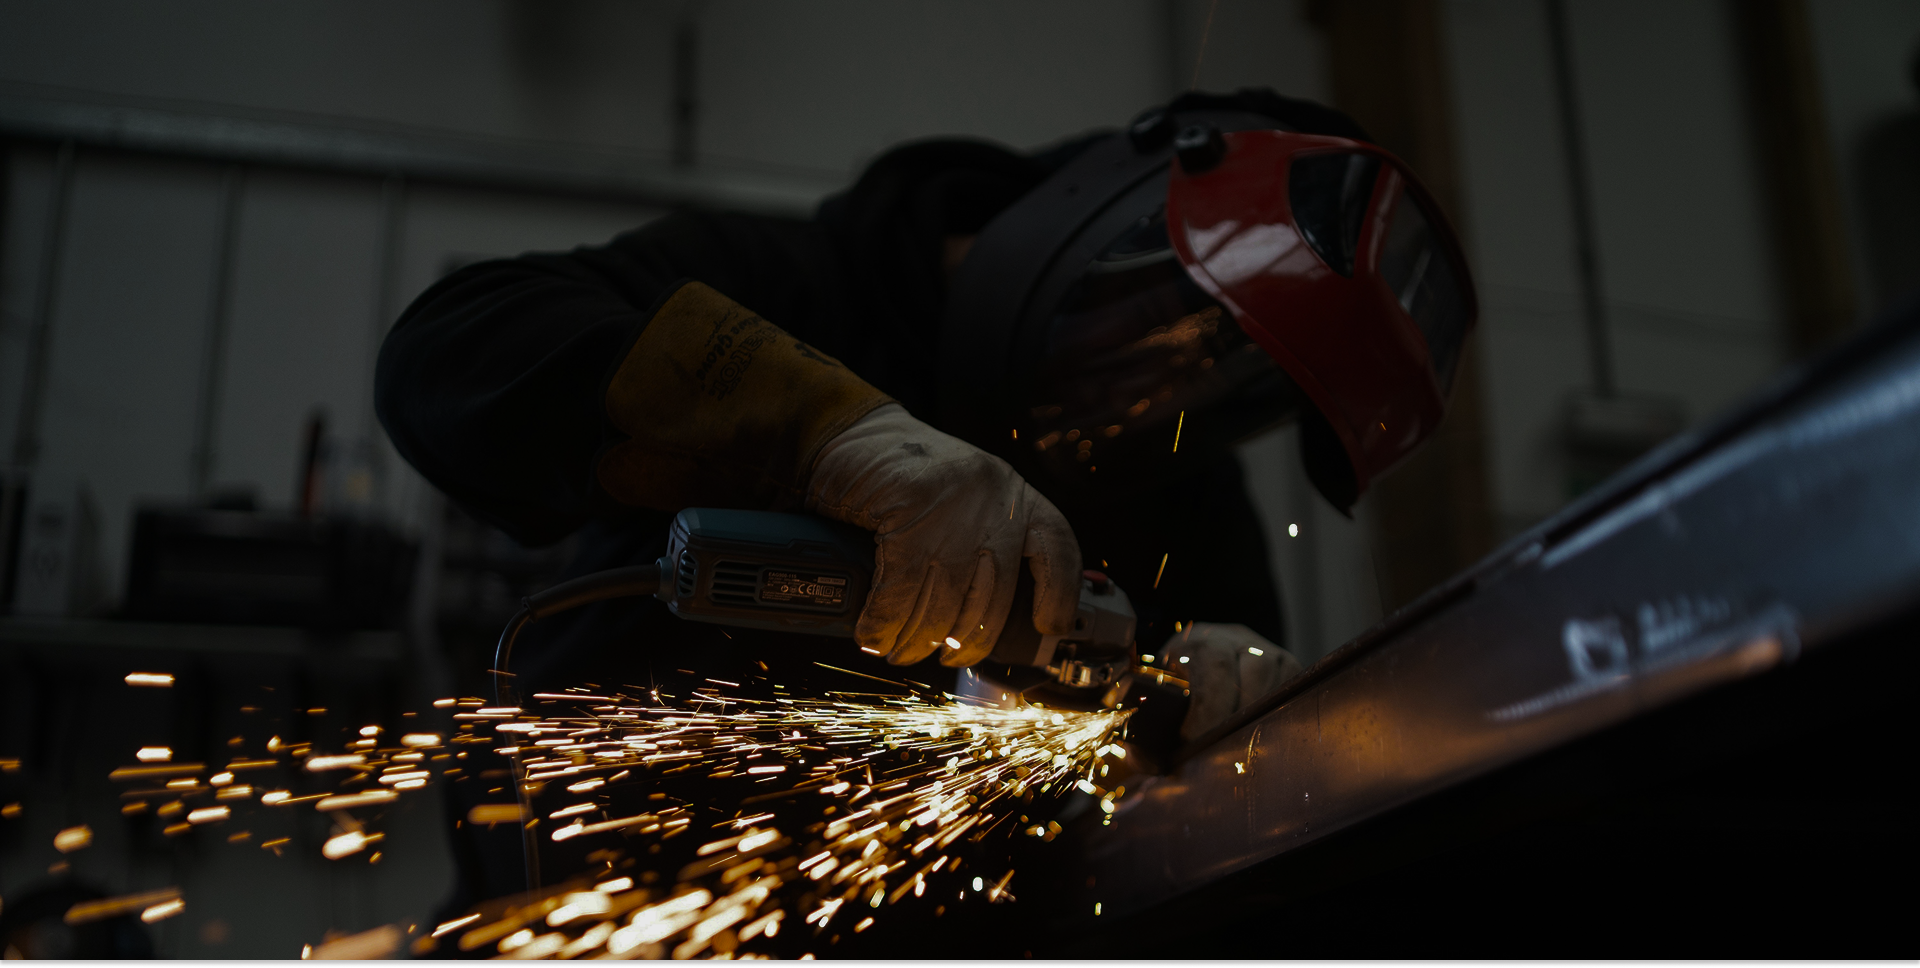
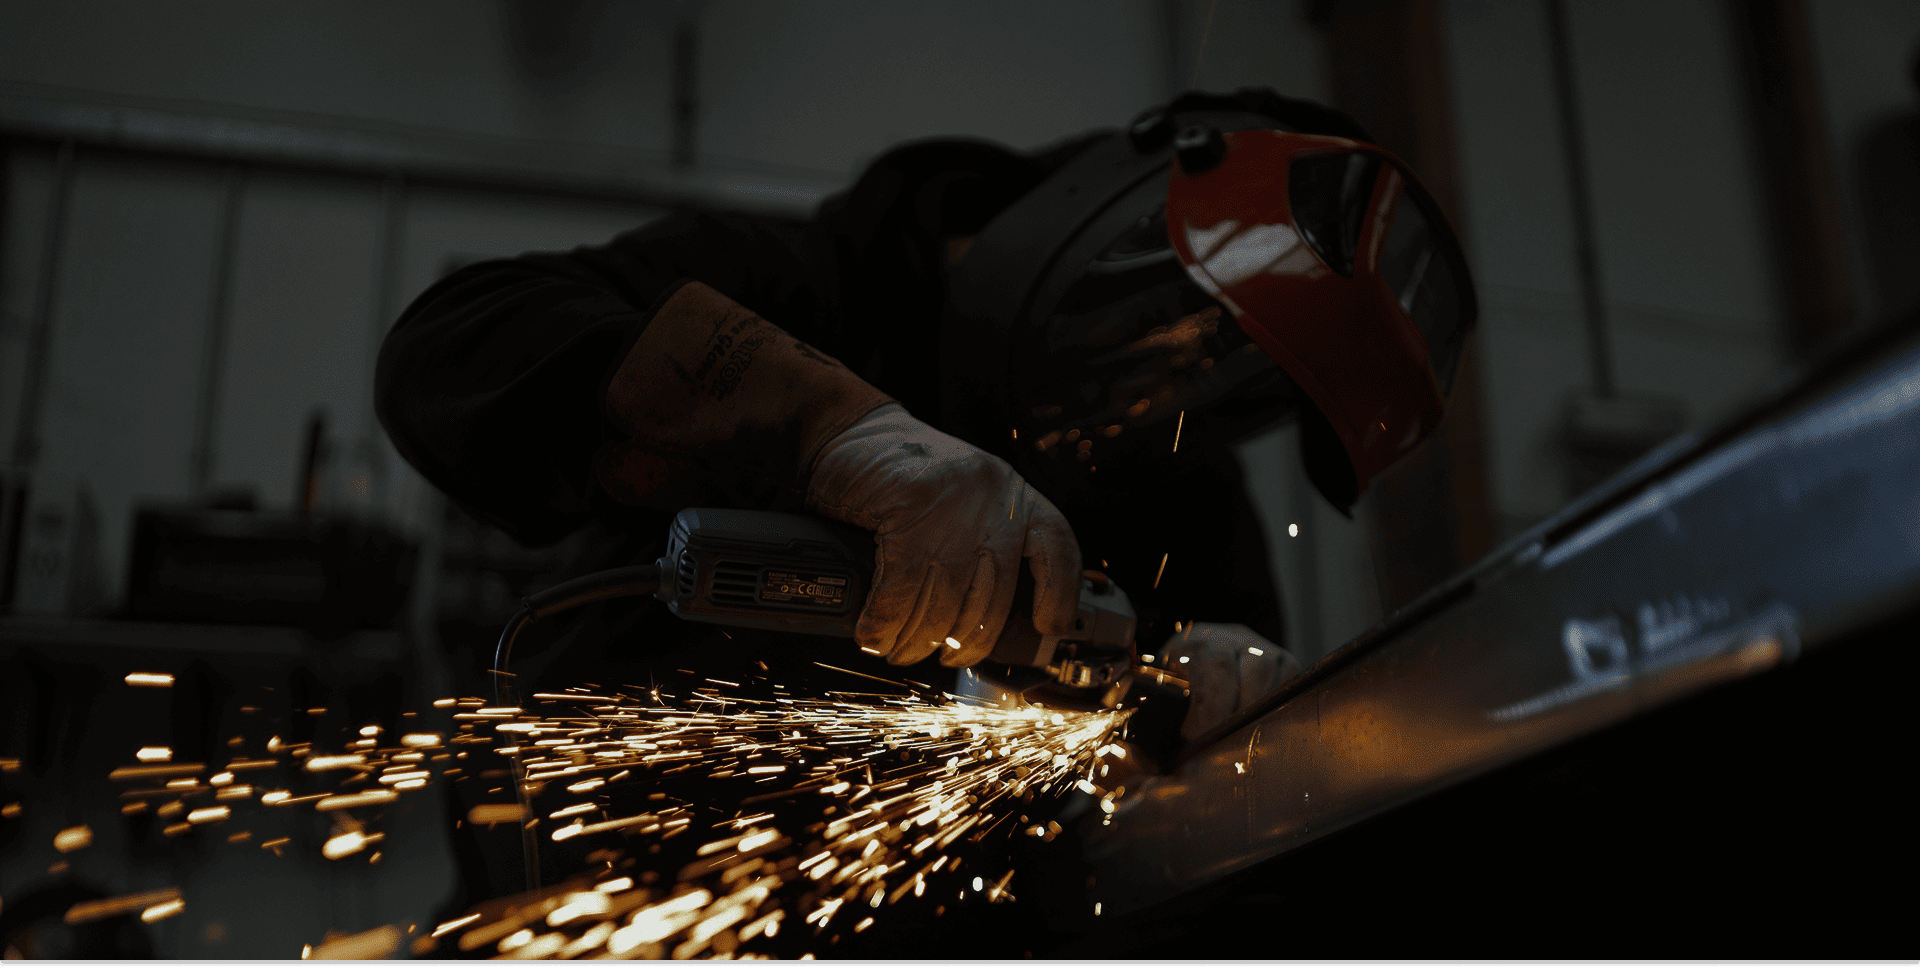
img fixed

diff --git a/index.html b/index.html
@@ -12,7 +12,7 @@
     <link
         href="https://fonts.googleapis.com/css2?family=Inter:ital,opsz,wght@0,14..32,100..900;1,14..32,100..900&display=swap"
         rel="stylesheet">
-    <title>Document</title>
+    <title>Мастер Сталь — изготовление металлоконструкций</title>
 </head>
 
 <body>
@@ -106,7 +106,7 @@
 
                 <a href="catalog.html?category=laser" class="catalog-card" data-category="laser">
                     <div class="catalog-card-img">
-                        <img src="./assets/img/catalog/lazer1.PNG" alt="Лазерная резка">
+                        <img src="./assets/img/catalog/lazer1.png" alt="Лазерная резка">
                     </div>
                     <div class="catalog-card-title active-title">Лазерная резка</div>
                 </a>
@@ -114,44 +114,44 @@
 
                 <a href="catalog.html?category=bending" class="catalog-card" data-category="bending">
                     <div class="catalog-card-img">
-                        <img src="./assets/img/catalog/gibka1.PNG" alt="Гибка">
+                        <img src="./assets/img/catalog/gibka1.png" alt="Гибка">
                     </div>
                     <div class="catalog-card-title">Гибка</div>
                 </a>
                 
                 <a href="catalog.html?category=laser" class="catalog-card" data-category="laser">
                     <div class="catalog-card-img">
-                        <img src="./assets/img/catalog/lazer2.PNG" alt="Лазерная резка">
+                        <img src="./assets/img/catalog/lazer2.png" alt="Лазерная резка">
                     </div>
                     <div class="catalog-card-title active-title">Лазерная резка</div>
                 </a>
                 <a href="catalog.html?category=powder" class="catalog-card" data-category="powder">
                     <div class="catalog-card-img">
-                        <img src="./assets/img/catalog/pokraska-porosh2.PNG" alt="Порошковая покраска">
+                        <img src="./assets/img/catalog/pokraska-porosh2.png" alt="Порошковая покраска">
                     </div>
                     <div class="catalog-card-title">Порошковая покраска</div>
                 </a>
                 <a href="catalog.html?category=rolling" class="catalog-card" data-category="rolling">
                     <div class="catalog-card-img">
-                        <img src="./assets/img/catalog/valcovka1.PNG" alt="Вальцовка">
+                        <img src="./assets/img/catalog/valcovka1.png" alt="Вальцовка">
                     </div>
                     <div class="catalog-card-title">Вальцовка</div>
                 </a>
                 <a href="catalog.html?category=bending" class="catalog-card" data-category="bending">
                     <div class="catalog-card-img">
-                        <img src="./assets/img/catalog/gibka2.PNG" alt="Гибка">
+                        <img src="./assets/img/catalog/gibka2.png" alt="Гибка">
                     </div>
                     <div class="catalog-card-title">Гибка</div>
                 </a>
                  <a href="catalog.html?category=laser" class="catalog-card" data-category="laser">
                     <div class="catalog-card-img">
-                        <img src="./assets/img/catalog/lazer3.PNG" alt="Лазерная резка">
+                        <img src="./assets/img/catalog/lazer3.png" alt="Лазерная резка">
                     </div>
                     <div class="catalog-card-title active-title">Лазерная резка</div>
                 </a>
                 <a href="catalog.html?category=welding" class="catalog-card" data-category="welding">
                     <div class="catalog-card-img">
-                        <img src="./assets/img/catalog/svarka1.PNG" alt="Сварка">
+                        <img src="./assets/img/catalog/svarka1.png" alt="Сварка">
                     </div>
                     <div class="catalog-card-title">Сварка</div>
                 </a>
@@ -159,7 +159,7 @@
 
                 <a href="catalog.html?category=powder" class="catalog-card" data-category="powder">
                     <div class="catalog-card-img">
-                        <img src="./assets/img/catalog/pokraska-porosh1.PNG" alt="Порошковая покраска">
+                        <img src="./assets/img/catalog/pokraska-porosh1.png" alt="Порошковая покраска">
                     </div>
                     <div class="catalog-card-title">Порошковая покраска</div>
                 </a>
@@ -190,25 +190,25 @@
 
             <div class="photo-grid" id="photoGallery">
                 <div class="photo-item">
-                    <img src="./assets/img/catalog/gibka1.PNG" alt="Металлоконструкции">
+                    <img src="./assets/img/catalog/gibka1.png" alt="Металлоконструкции">
                 </div>
                 <div class="photo-item">
-                    <img src="./assets/img/catalog/gibka2.PNG" alt="Металлоконструкции">
+                    <img src="./assets/img/catalog/gibka2.png" alt="Металлоконструкции">
                 </div>
                 <div class="photo-item">
-                    <img src="./assets/img/catalog/lazer1.PNG" alt="Металлоконструкции">
+                    <img src="./assets/img/catalog/lazer1.png" alt="Металлоконструкции">
                 </div>
                 <div class="photo-item">
-                    <img src="./assets/img/catalog/lazer2.PNG" alt="Металлоконструкции">
+                    <img src="./assets/img/catalog/lazer2.png" alt="Металлоконструкции">
                 </div>
                 <div class="photo-item">
-                    <img src="./assets/img/catalog/lazer3.PNG" alt="Металлоконструкции">
+                    <img src="./assets/img/catalog/lazer3.png" alt="Металлоконструкции">
                 </div>
                 <div class="photo-item">
-                    <img src="./assets/img/catalog/pokraska-porosh1.PNG" alt="Металлоконструкции">
+                    <img src="./assets/img/catalog/pokraska-porosh1.png" alt="Металлоконструкции">
                 </div>
                 <div class="photo-item">
-                    <img src="./assets/img/catalog/pokraska-porosh2.PNG" alt="Металлоконструкции">
+                    <img src="./assets/img/catalog/pokraska-porosh2.png" alt="Металлоконструкции">
                 </div>
             </div>
 

diff --git a/catalog.html b/catalog.html
@@ -11,7 +11,7 @@
     <link
         href="https://fonts.googleapis.com/css2?family=Inter:ital,opsz,wght@0,14..32,100..900;1,14..32,100..900&display=swap"
         rel="stylesheet">
-    <title>Document</title>
+    <title>Каталог — Мастер Сталь</title>
 </head>
 
 <body>